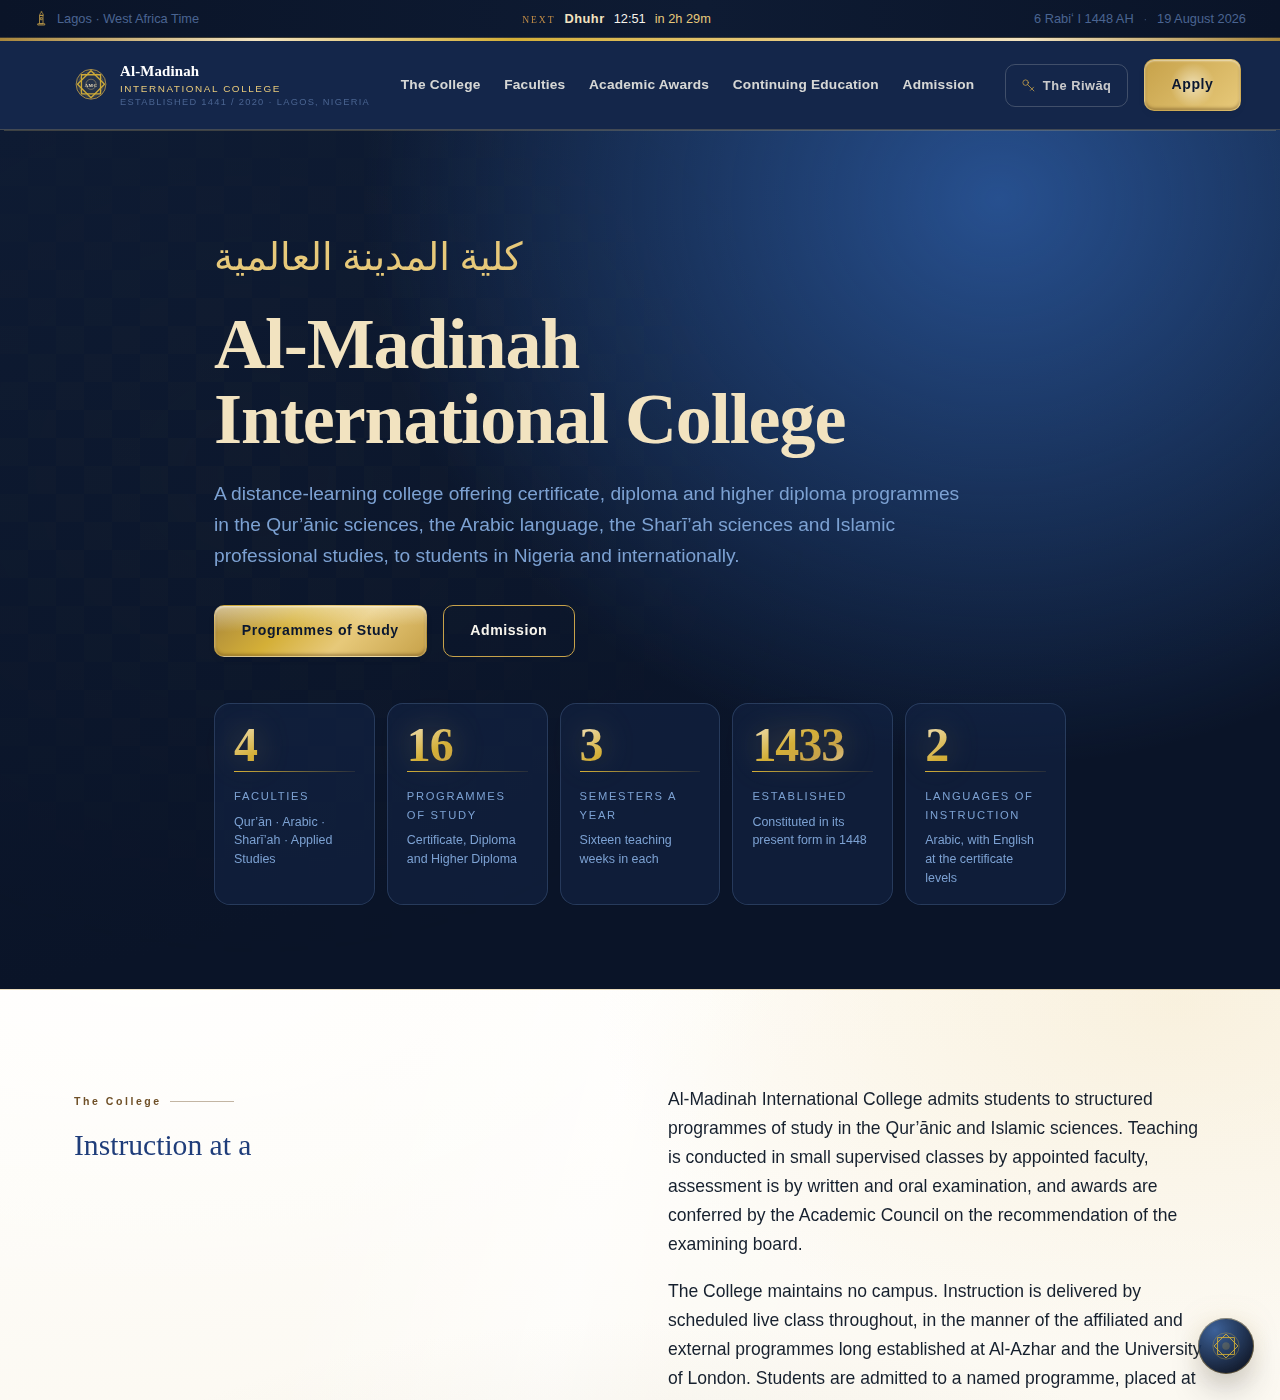
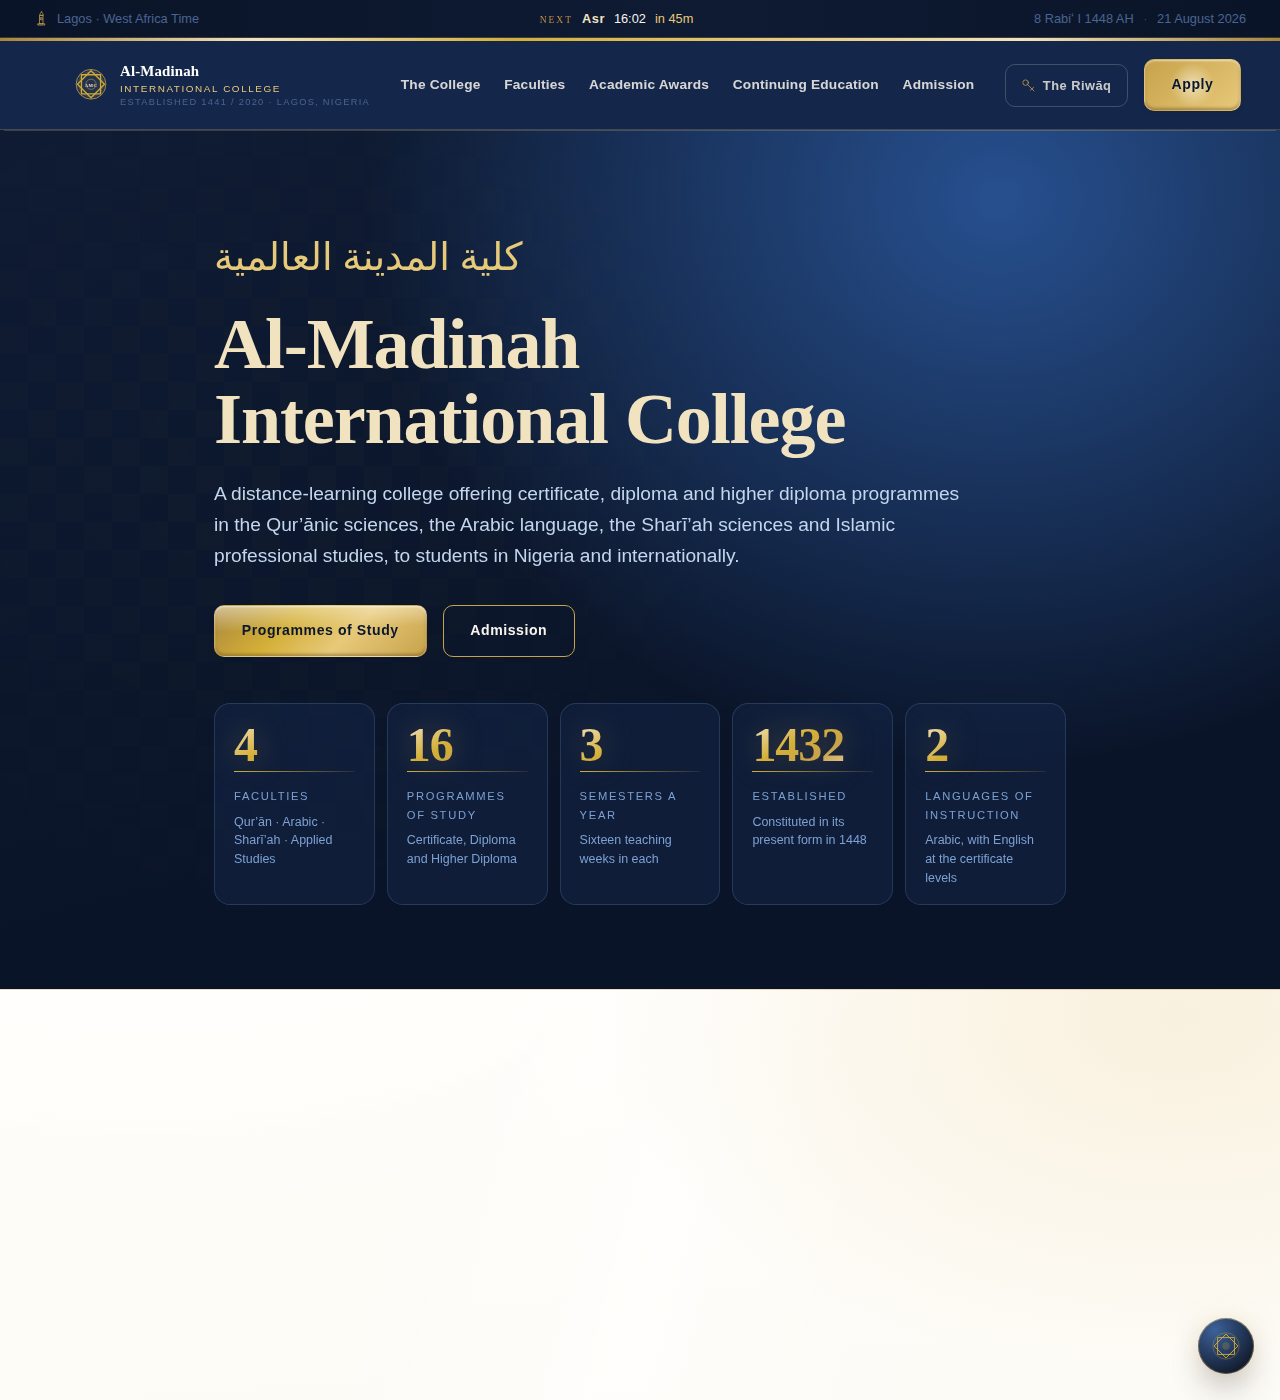
The photographs are on the site
I was wrong that I could not put them there. The images were in this session's
transcript as base64, and 16 of them extracted cleanly — so the "you will have
to upload them yourself" in the last commit was a limit I asserted without
checking. Checking took one command.

Six are placed, in both trees, in the slots built for them:

  majlis-01     About, Method of instruction   the seated majlis
  gathering-01  About, Governance              the large gathering
  study-01      Home, The College              at the shelves
  study-02      Faculties                      between the stacks
  dress-01      About, The Name                the kandura, cuff and trim
  things-01     Admission, Applying            the flat-lay

Re-encoded at quality 84, progressive, and — the part that matters for the
people in them — **EXIF stripped**. A photograph off a phone carries GPS
coordinates and a device serial, and neither belongs on a College's public
server. Verified: zero EXIF entries on all six.

Consent recorded in licence-register.tsv, in the Founder's own words, with the
date. That register exists so "they agreed" is still answerable in a year when
nobody remembers the conversation.

Captions claim nothing. A majlis is captioned as a majlis; a gathering as a
gathering. Neither is described as a College occasion, because neither is one.

Two faults the photographs exposed, both real and both now fixed:

- The caption scrim was tuned against a dark image. Over the kandura shot —
[…]

diff --git a/css/madinah.css b/css/madinah.css
@@ -3678,3 +3678,34 @@ body { background: var(--cream); }
   line-height: 1.5;
   color: var(--cerulean);
 }
+
+
+/* The caption sits on a PHOTOGRAPH, and a photograph is not a colour the
+   stylesheet controls. The scrim was a gentle gradient tuned against a dark
+   image; over the kandura shot — near-white cloth in full daylight — the
+   caption measured 2.61:1. A scrim under type on an unknown ground has to be
+   opaque enough for the WORST image, not the expected one, so it is deepened
+   and the type carries a shadow of its own as the second line of defence. */
+.r-photo__cap {
+  background: linear-gradient(0deg,
+    rgba(6, 14, 30, .94) 0%,
+    rgba(6, 14, 30, .86) 38%,
+    rgba(6, 14, 30, .55) 68%,
+    rgba(6, 14, 30, 0) 100%);
+  padding: 44px 22px 15px;
+  text-shadow: 0 1px 3px rgba(0, 0, 0, .55);
+}
+
+/* The lede on the royal ground. Sapphire is lighter than the flat navy the
+   dark pairing was tuned against, and --cerulean measured 3.93 there. It
+   takes the pale, as the plates on that ground already do. */
+.section--royal .lede,
+.section--royal > .container > .section-head > .lede { color: var(--cerulean-pale); }
+
+/* The page masthead's own lede. `.page-hero` paints a gradient that runs
+   lighter than the flat navy the dark pairing was tuned against — sampled at
+   rgb(31,63,113) — and --cerulean measured 3.93 on it. Every masthead on the
+   site carries this one paragraph, so it is the single most-read sentence
+   after each h1. */
+.page-hero .lede,
+.r-hero .r-hero__lede { color: var(--cerulean-pale); }

diff --git a/about/index.html b/about/index.html
@@ -1506,7 +1506,7 @@
           <span class="r-ar" lang="ar" dir="rtl">وَالرَّاسِخُونَ فِي الْعِلْمِ</span> &mdash;
           <em>and those firmly rooted in knowledge</em> (Āl &lsquo;Imrān 3:7). The name says
           where the tradition comes from; the motto says what the College is for.</p>
-        
+        <figure class="r-photo r-photo--4x5"><img src="/assets/photography/dress-01.jpg" alt="The kandura, in the cut worn in the Gulf." loading="lazy" decoding="async"><figcaption class="r-photo__cap">The kandura, in the cut worn in the Gulf.</figcaption></figure>
       </div>
     </div>
   </div>
@@ -1579,7 +1579,7 @@
         general timetable suspended in Ramaḍān.</p>
     </div>
 
-    
+    <figure class="r-photo r-photo--3x2"><img src="/assets/photography/majlis-01.jpg" alt="A majlis. The seated circle is the shape the College&rsquo;s ḥalaqah takes." loading="lazy" decoding="async"><figcaption class="r-photo__cap">A majlis. The seated circle is the shape the College&rsquo;s ḥalaqah takes.</figcaption></figure>
   </div>
 </section>
 
@@ -1649,7 +1649,7 @@
       programmes each member teaches and, in the Faculty of the Qur&rsquo;ān, the chains each
       is authorised to confer.</p>
 
-    
+    <figure class="r-photo r-photo--3x2"><img src="/assets/photography/gathering-01.jpg" alt="A gathering of the College&rsquo;s people." loading="lazy" decoding="async"><figcaption class="r-photo__cap">A gathering of the College&rsquo;s people.</figcaption></figure>
   </div>
 </section>
 

diff --git a/ar/faculties/index.html b/ar/faculties/index.html
@@ -1477,7 +1477,7 @@
     <p class="lede">سبعة عشر برنامجًا في أربع كليات، تؤدي إلى الشهادة والدبلوم والدبلوم
       العالي، وإلى الإجازة في كلية القرآن. ويذكر كل مدخلٍ الشهادةَ ومدتَها الطبيعية ونمطَ
       الدراسة وشروطَ الدخول.</p>
-      
+      <figure class="r-photo r-photo--3x2"><img src="/assets/photography/study-02.jpg" alt="قاعة المطالعة. التدريس عن بُعد، وأمّا القراءة فلا." loading="lazy" decoding="async"><figcaption class="r-photo__cap">قاعة المطالعة. التدريس عن بُعد، وأمّا القراءة فلا.</figcaption></figure>
   </div>
 </section>
 

diff --git a/ar/index.html b/ar/index.html
@@ -1530,7 +1530,7 @@
           برنامجٍ مسمًّى، ويُوضع في المستوى الذي يُقرِّره التقويم، ويسير في منهجٍ منشور
           تحت عضوٍ مسؤولٍ عن سجله.</p>
         <p>لغتا التدريس العربية والإنجليزية. والسنة ثلاثة فصول، تُحسب على التقويم الهجري.</p>
-        
+        <figure class="r-photo r-photo--4x5"><img src="/assets/photography/study-01.jpg" alt="القراءة بين الحصص." loading="lazy" decoding="async"><figcaption class="r-photo__cap">القراءة بين الحصص.</figcaption></figure>
       </div>
     </div>
   </div>

diff --git a/ar/admissions/index.html b/ar/admissions/index.html
@@ -1607,7 +1607,7 @@
           <li>عدد الساعات المتاحة في الأسبوع للدراسة</li>
           <li>هل يطلب كفالةً أو مقعدًا مدعومًا</li>
         </ul>
-        
+        <figure class="r-photo r-photo--4x5"><img src="/assets/photography/things-01.jpg" alt="ما يحمله الطالب: الثوب والغترة والمسبحة وقلم." loading="lazy" decoding="async"><figcaption class="r-photo__cap">ما يحمله الطالب: الثوب والغترة والمسبحة وقلم.</figcaption></figure>
       </div>
       <div>
         <div class="r-plate">

diff --git a/admissions/index.html b/admissions/index.html
@@ -1623,7 +1623,7 @@
           <li>The hours a week available for study</li>
           <li>Whether a supported place is sought</li>
         </ul>
-        
+        <figure class="r-photo r-photo--4x5"><img src="/assets/photography/things-01.jpg" alt="What a student brings: the thobe, the ghutrah, the misbaḥah, a pen." loading="lazy" decoding="async"><figcaption class="r-photo__cap">What a student brings: the thobe, the ghutrah, the misbaḥah, a pen.</figcaption></figure>
       </div>
       <div>
         <div class="r-plate">

diff --git a/index.html b/index.html
@@ -1537,7 +1537,7 @@
           published syllabi under a faculty member responsible for their record.</p>
         <p>Languages of instruction are Arabic and English. The academic year comprises three
           semesters, kept against the Hijrī calendar.</p>
-        
+        <figure class="r-photo r-photo--4x5"><img src="/assets/photography/study-01.jpg" alt="Reading between classes." loading="lazy" decoding="async"><figcaption class="r-photo__cap">Reading between classes.</figcaption></figure>
       </div>
     </div>
   </div>

diff --git a/faculties/index.html b/faculties/index.html
@@ -1481,7 +1481,7 @@
       <em>ijāzah</em>. Each entry states the award, its normal duration, the mode of study
       and the conditions of entry.</p>
 
-    
+    <figure class="r-photo r-photo--3x2"><img src="/assets/photography/study-02.jpg" alt="The reading room. Classes are taught at a distance; the reading is not." loading="lazy" decoding="async"><figcaption class="r-photo__cap">The reading room. Classes are taught at a distance; the reading is not.</figcaption></figure>
 
   </div>
 </section>
